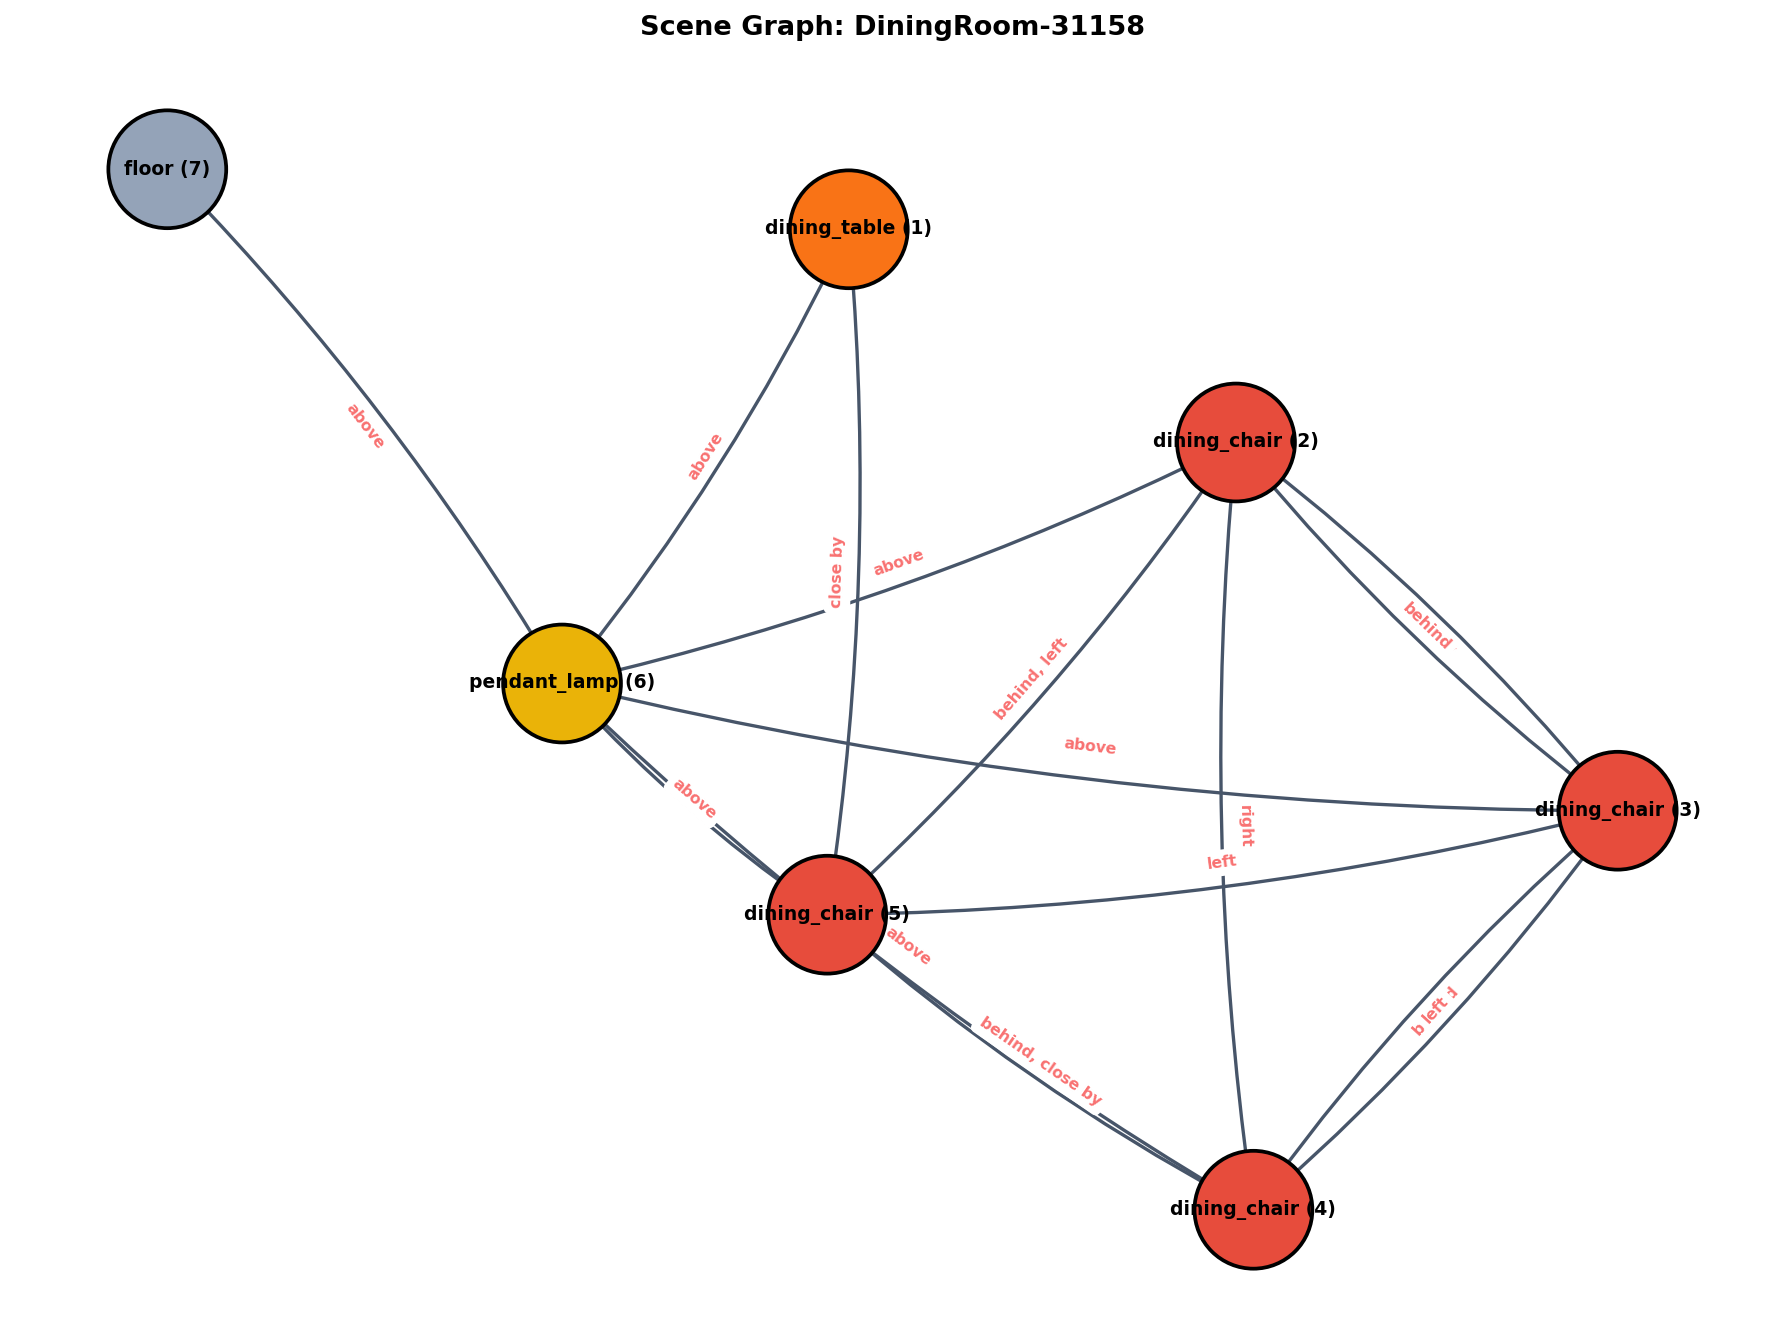
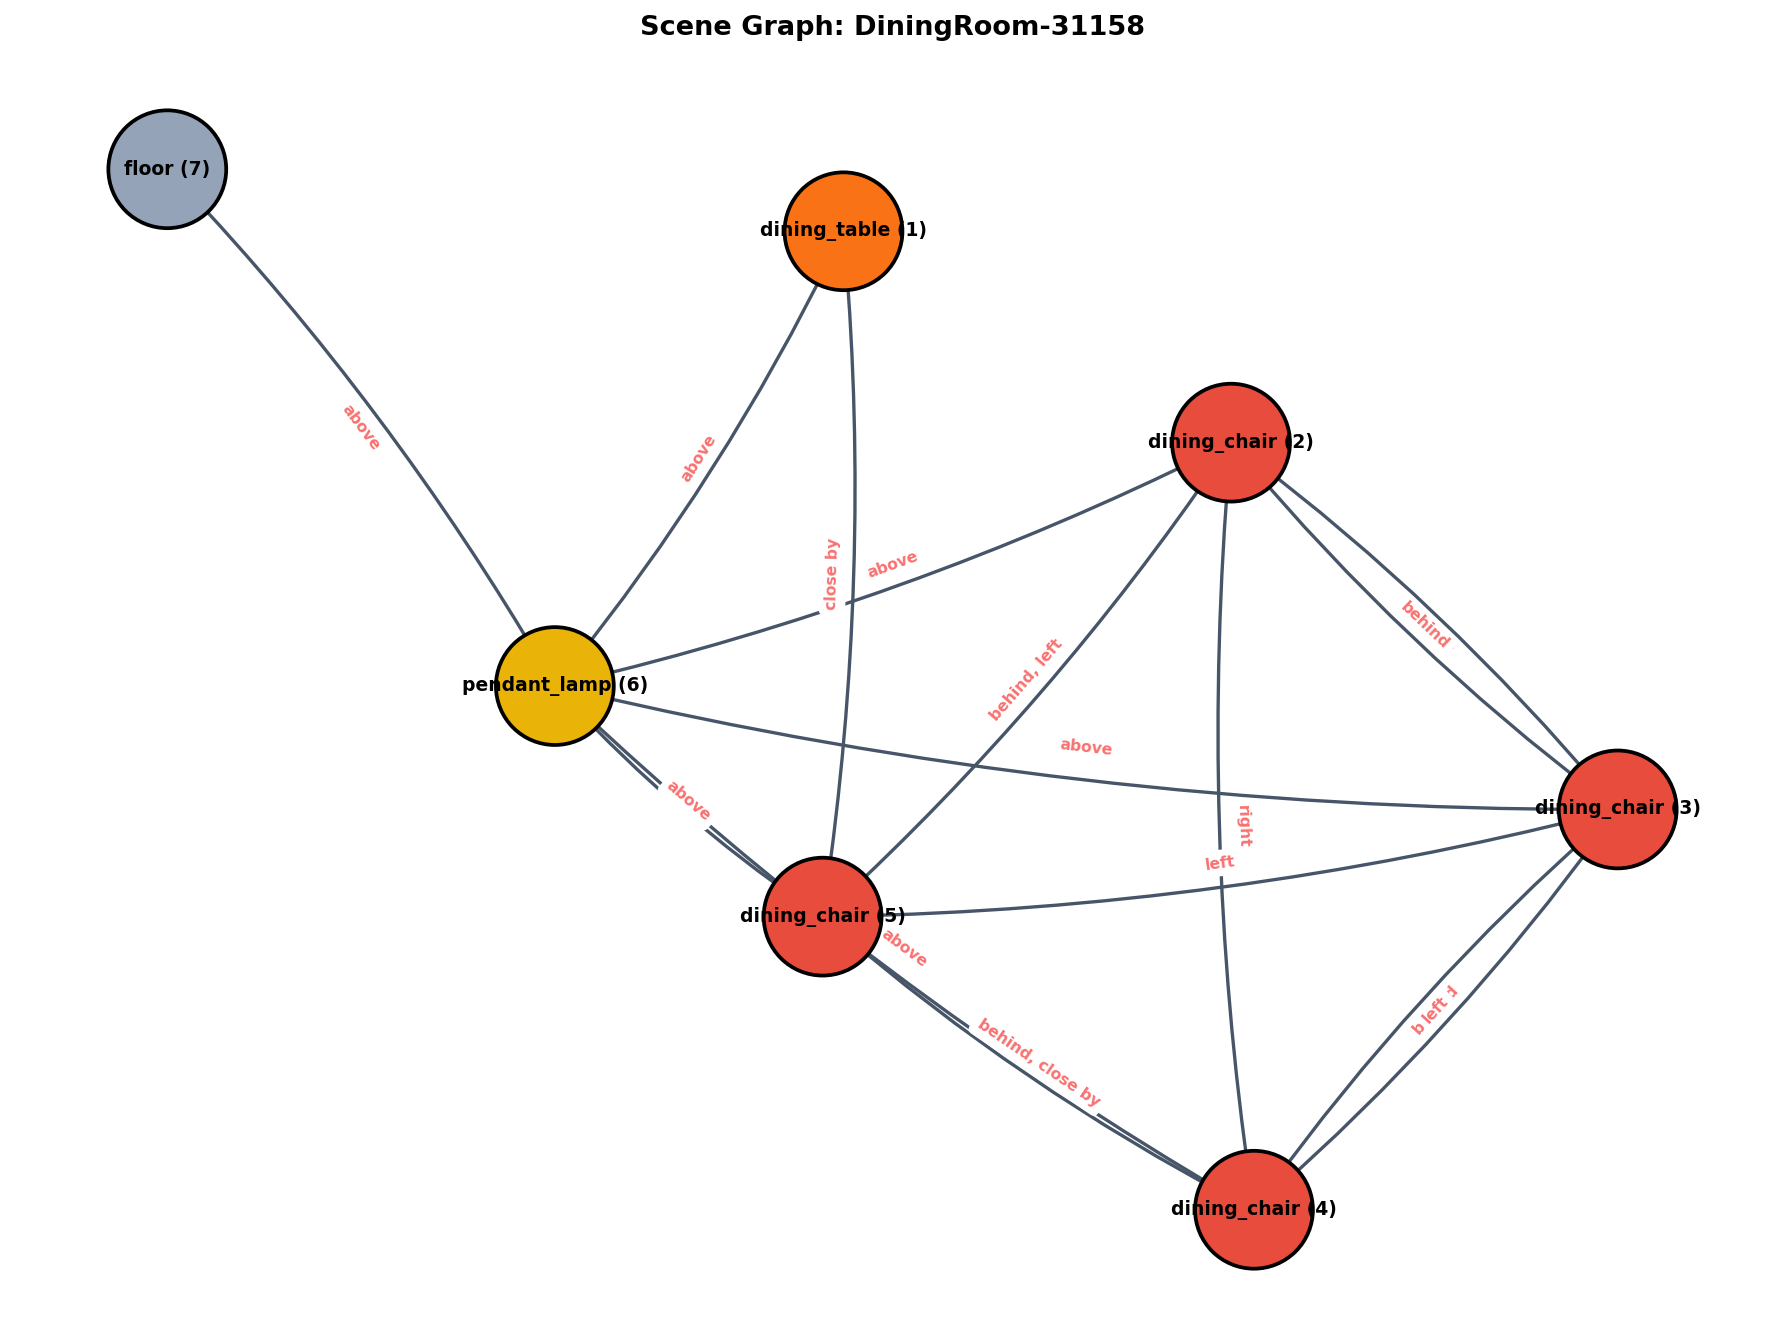
upd

diff --git a/scene_graph_editor.py b/scene_graph_editor.py
@@ -411,16 +411,10 @@ class App:
         self._centered = True
         self._place_nodes_in_ring(W, H)
 
-    # ── canvas Configure — only tracks resize, never places nodes ─────────────
+    # ── canvas Configure — tracks resize only ────────────────────────────────
     def _on_configure(self, event):
         self.canvas_w = event.width
         self.canvas_h = event.height
-        # On resize after initial placement, re-centre so nodes stay inside
-        if self._centered and (event.width > 10):
-            self._place_nodes_in_ring(event.width, event.height)
-            # Reset velocities so physics re-settles from new positions
-            for n in self.graph.nodes:
-                n.vx = n.vy = 0
 
     def _place_nodes_in_ring(self, W, H):
         cx, cy = W / 2, H / 2
@@ -813,8 +807,10 @@ class App:
                 f"'{sid}' not found in file.", parent=self.root); return
         self.graph = g; self.scene_id = sid
         self.sel_node = self.sel_edge = None
-        self._centered = False          # re-centre on next tick
         self.root.title(f"Scene Graph Editor  ·  {sid}")
+        # Re-centre nodes immediately using current live canvas size
+        W, H = self._live_dims()
+        self._place_nodes_in_ring(W, H)
         self._refresh_lists()
 
     def _show_json(self):
